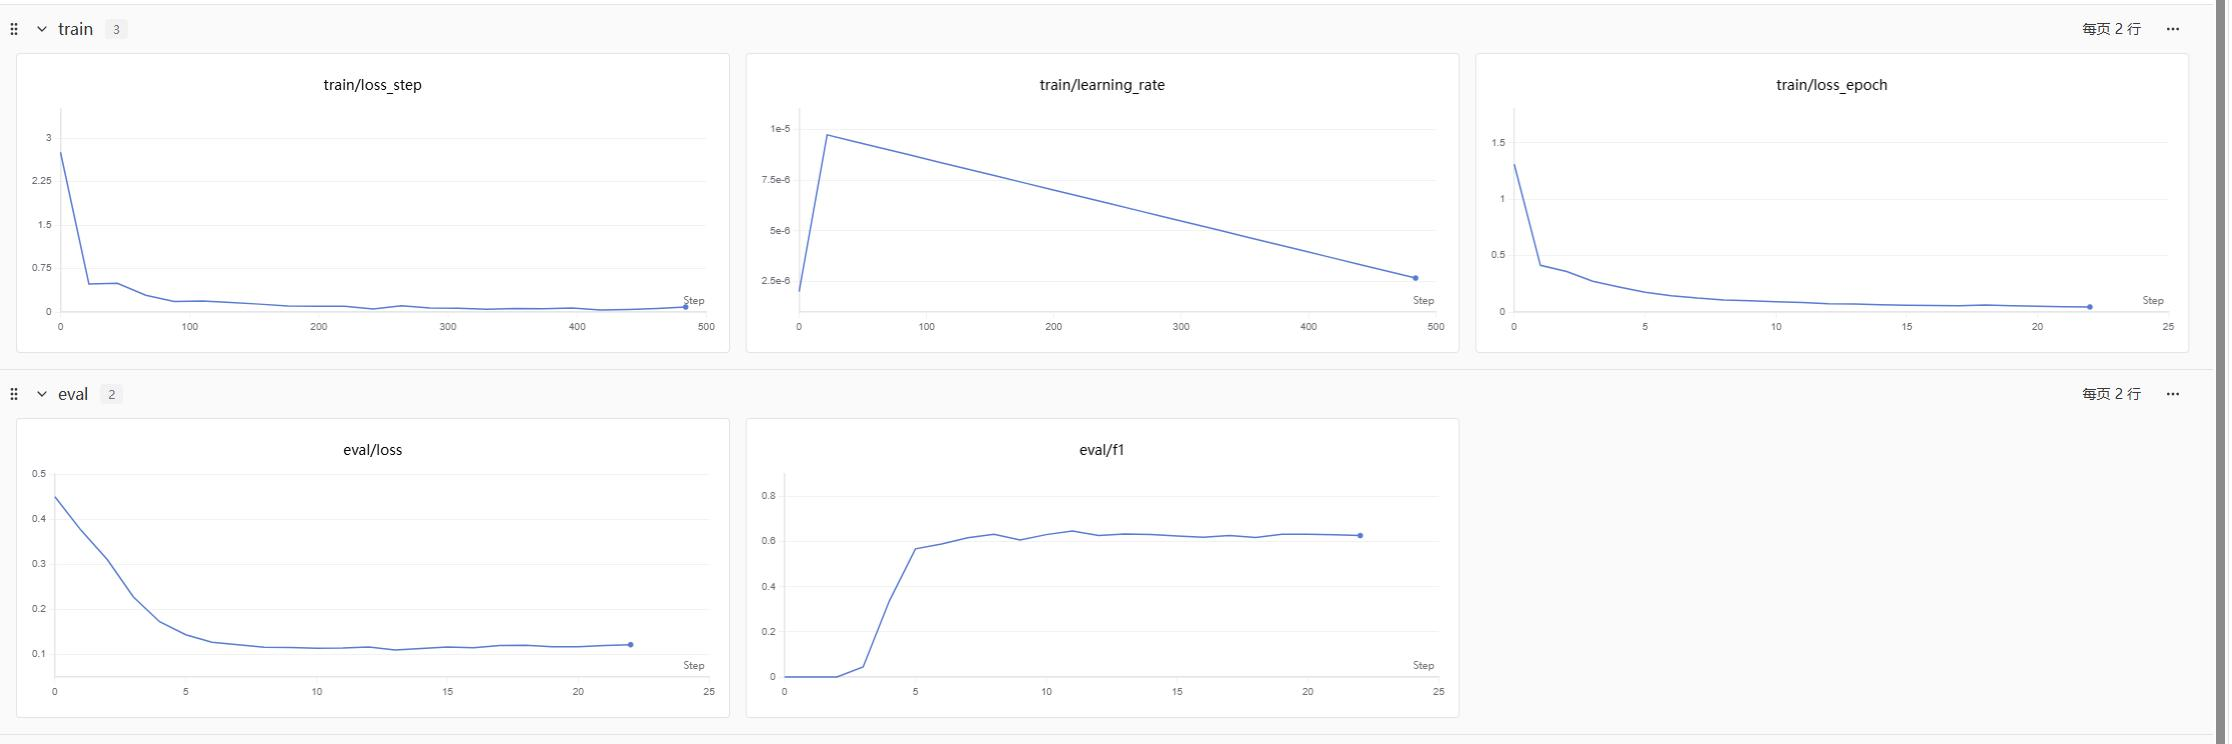
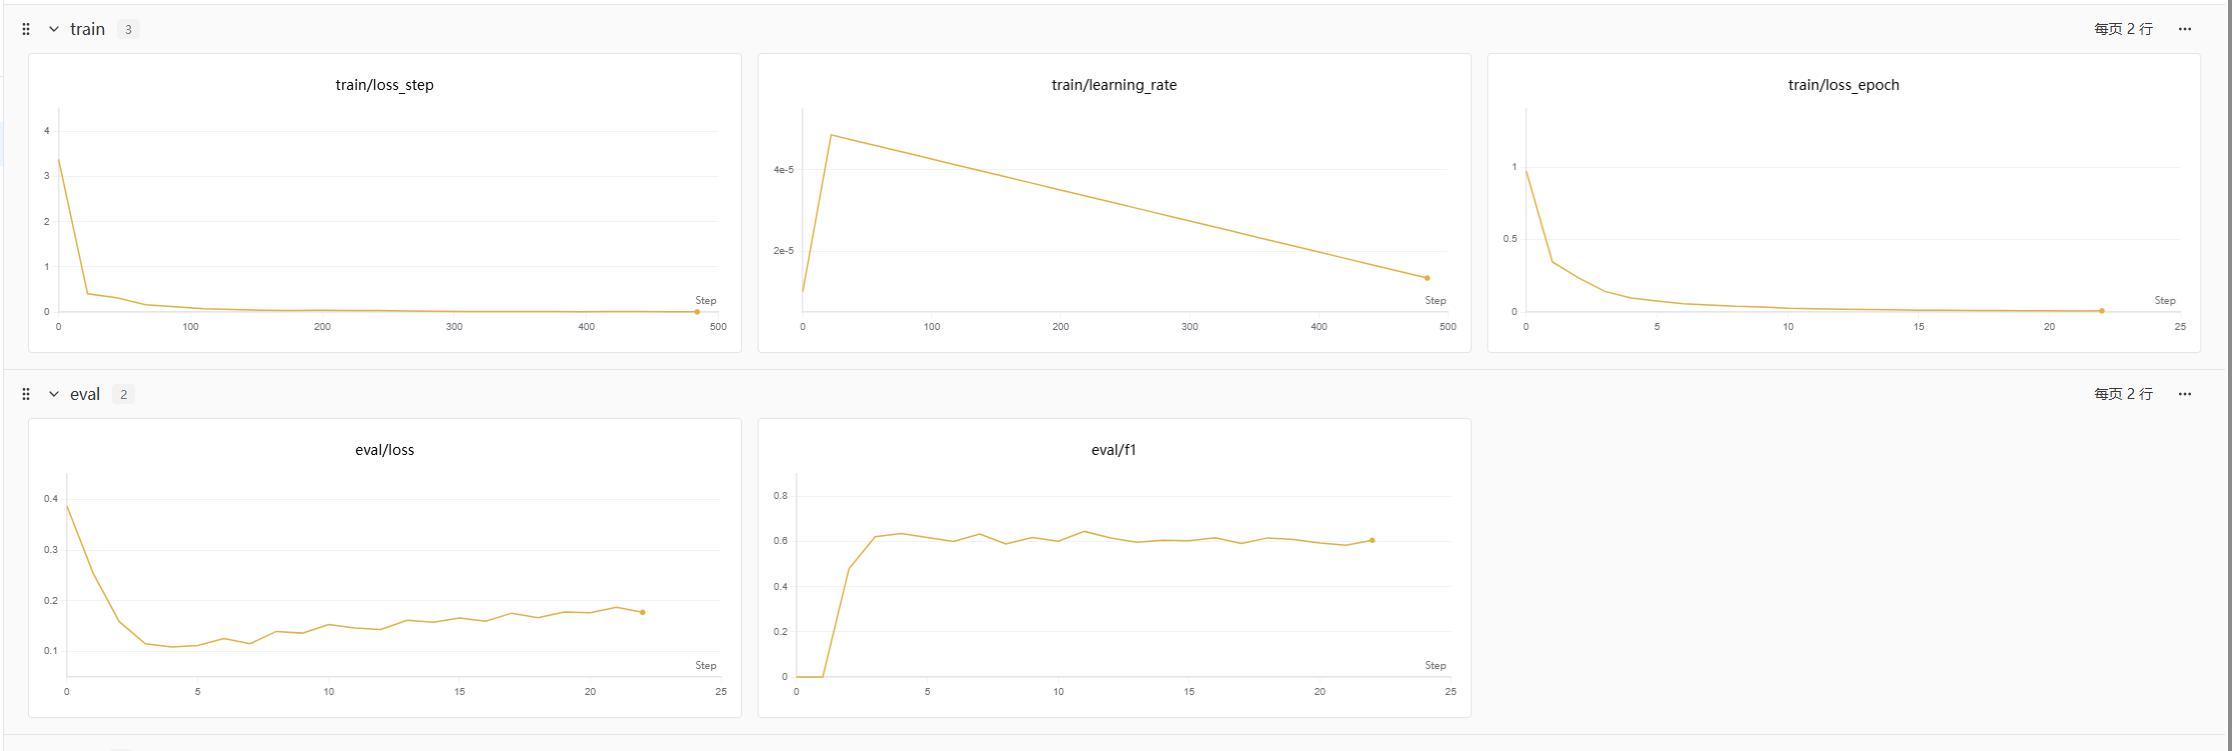
docs: 更新实验配置与评估结果
调整学习率配置，更新README中的参数说明与完整的评估指标表格

diff --git a/README.md b/README.md
@@ -76,7 +76,7 @@ pip install -r requirements.txt
 {
   "num_epochs": 30,                   // 最大训练轮数
   "batch_size": 64,                   // 每批样本数量
-  "lr": 1e-5,                         // 学习率
+  "lr": 5e-5,                         // 学习率
   "weight_decay": 0.01,               // 权重衰减（L2正则）
   "device": "cuda:0",                 // 使用的设备（GPU/CPU）
   "model_dir": "../bert-base-chinese", // 预训练BERT模型路径
@@ -143,31 +143,31 @@ python trainer.py --arg ./args/arg1.json
 
 #### First-Subtoken Strategy (`arg1.json`)
 
-| 实体类别 | Precision | Recall | F1 | Support |
-|----------|-----------|--------|-----|---------|
-| GPE.NAM | 0.5185 | 0.9130 | 0.6614 | 46 |
-| GPE.NOM | 0.0000 | 0.0000 | 0.0000 | 2 |
-| LOC.NAM | 0.0000 | 0.0000 | 0.0000 | 19 |
-| LOC.NOM | 0.0000 | 0.0000 | 0.0000 | 9 |
-| ORG.NAM | 0.4286 | 0.2308 | 0.3000 | 39 |
-| ORG.NOM | 0.0000 | 0.0000 | 0.0000 | 16 |
-| PER.NAM | 0.5704 | 0.7000 | 0.6286 | 110 |
-| PER.NOM | 0.6474 | 0.7365 | 0.6891 | 167 |
-| **micro avg** | **0.5878** | **0.6152** | **0.6012** | — |
+| 类别       | Precision | Recall   | F1       | Support |
+|------------|-----------|----------|----------|---------|
+| GPE.NAM    | 0.687500  | 0.956522 | 0.800000 | 46.0    |
+| GPE.NOM    | 0.000000  | 0.000000 | 0.000000 | 2.0     |
+| LOC.NAM    | 0.421053  | 0.421053 | 0.421053 | 19.0    |
+| LOC.NOM    | 0.500000  | 0.444444 | 0.470588 | 9.0     |
+| ORG.NAM    | 0.567568  | 0.538462 | 0.552632 | 39.0    |
+| ORG.NOM    | 0.636364  | 0.437500 | 0.518519 | 16.0    |
+| PER.NAM    | 0.513699  | 0.681818 | 0.585937 | 110.0   |
+| PER.NOM    | 0.664634  | 0.652695 | 0.658610 | 167.0   |
+| micro_avg  | **0.596882** | **0.656863** | **0.625438** | NaN     |
 
 #### Label Propagation (`arg2.json`)
 
-| 实体类别 | Precision | Recall | F1 | Support |
-|----------|-----------|--------|-----|---------|
-| GPE.NAM | 0.6393 | 0.8478 | 0.7290 | 46 |
-| GPE.NOM | 0.0000 | 0.0000 | 0.0000 | 2 |
-| LOC.NAM | 0.0000 | 0.0000 | 0.0000 | 19 |
-| LOC.NOM | 0.0000 | 0.0000 | 0.0000 | 9 |
-| ORG.NAM | 0.4286 | 0.1538 | 0.2264 | 39 |
-| ORG.NOM | 0.0000 | 0.0000 | 0.0000 | 16 |
-| PER.NAM | 0.5448 | 0.7182 | 0.6196 | 110 |
-| PER.NOM | 0.6596 | 0.7425 | 0.6986 | 167 |
-| **micro avg** | **0.6078** | **0.6078** | **0.6078** | — |
+| 类别       | Precision | Recall   | F1       | Support |
+|------------|-----------|----------|----------|---------|
+| GPE.NAM    | 0.666667  | 0.826087 | 0.737864 | 46.0    |
+| GPE.NOM    | 0.000000  | 0.000000 | 0.000000 | 2.0     |
+| LOC.NAM    | 0.291667  | 0.368421 | 0.325581 | 19.0    |
+| LOC.NOM    | 0.750000  | 0.333333 | 0.461538 | 9.0     |
+| ORG.NAM    | 0.409091  | 0.461538 | 0.433735 | 39.0    |
+| ORG.NOM    | 0.777778  | 0.437500 | 0.560000 | 16.0    |
+| PER.NAM    | 0.622951  | 0.690909 | 0.655172 | 110.0   |
+| PER.NOM    | 0.710692  | 0.676647 | 0.693252 | 167.0   |
+| micro_avg  | **0.625298** | **0.642157** | **0.633615** | NaN     |
 
 
 
